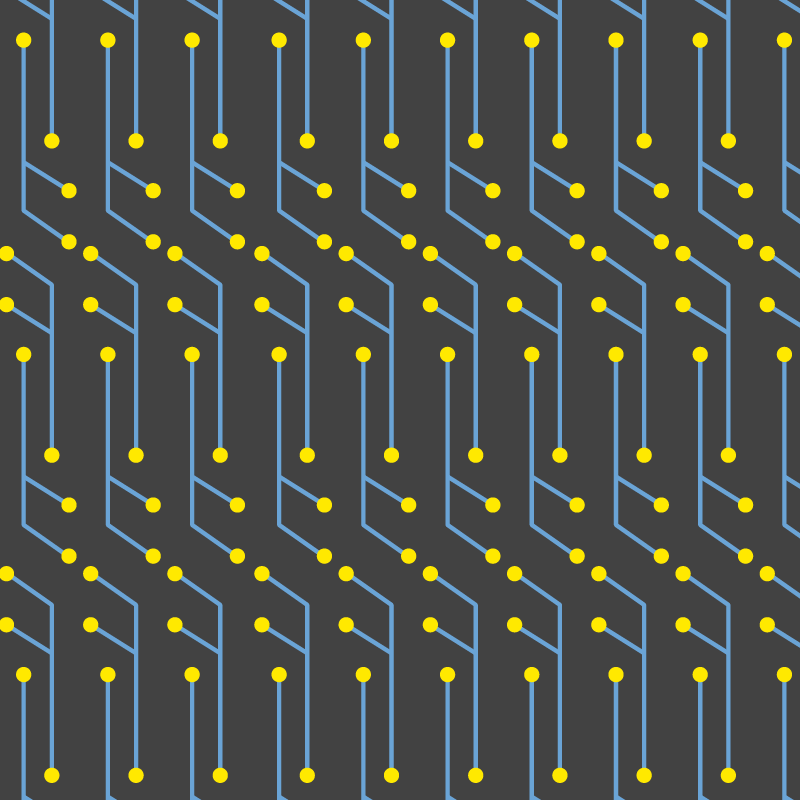
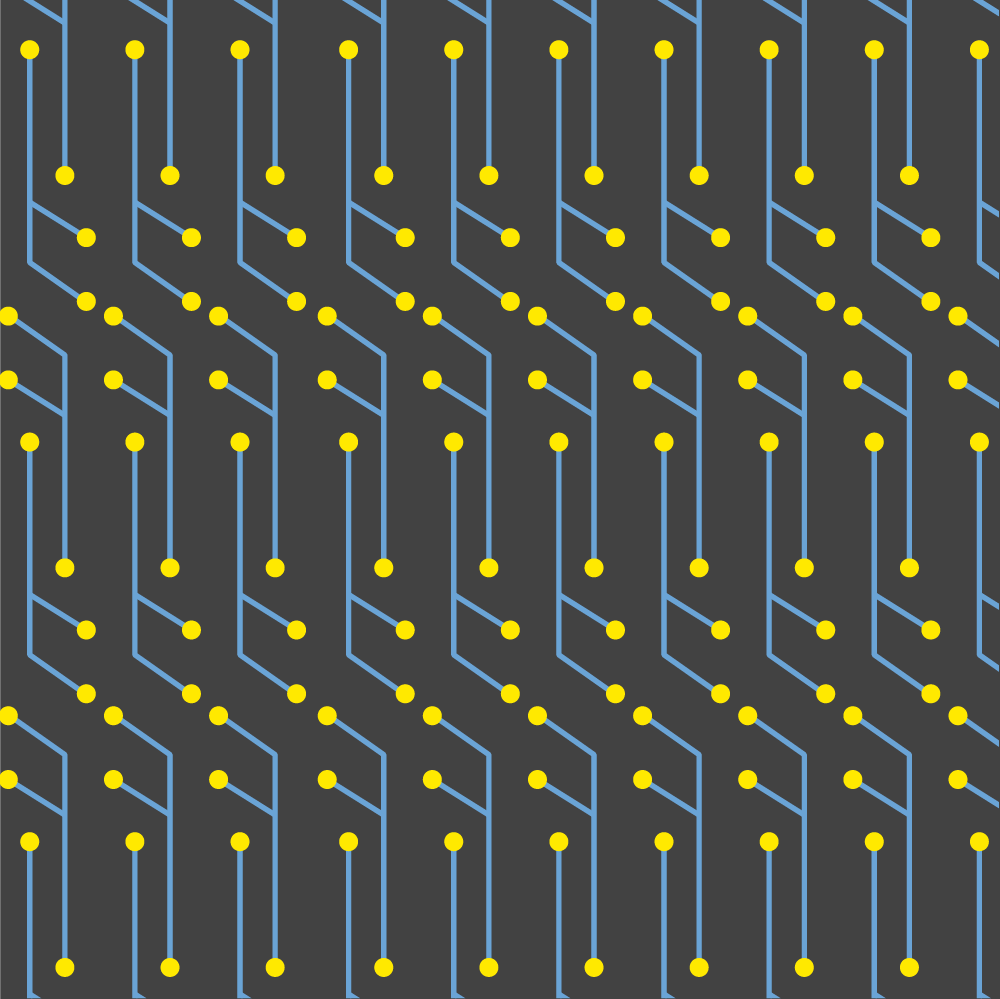
Optimisation size/weight img

diff --git a/src/templates/blog-post.js b/src/templates/blog-post.js
@@ -23,8 +23,8 @@ export default function Template({ data }) {
       />
       <Container
         fluid
+        className="header-post"
         style={{
-          paddingTop: "15rem",
           paddingBottom: "5%",
           backgroundColor: "#F9F9F9",
         }}

diff --git a/src/templates/blog-post.scss b/src/templates/blog-post.scss
@@ -1,3 +1,10 @@
 img{
   max-width: 100%;
 }
+
+.ui.fluid.container.header-post{
+  padding-top: 15rem;
+  @media only screen and (max-width: 1200px) {
+    padding-top: 5rem;
+  }
+}

diff --git a/src/pages/content/index.md b/src/pages/content/index.md
@@ -75,7 +75,7 @@ pitch:
       cillum. Aute officia ipsum exercitation pariatur fugiat labore. Labore
       velit nisi deserunt cillum Lorem esse est proident commodo eu anim irure
       nostrud. Ea ut labore non esse dolore.
-    image: /assets/flexibilite-c42.png
+    image: /assets/flexibilite-350.png
     title: Flexibilité
 testimonials:
   heading: Ce qu'en pensent nos clients
